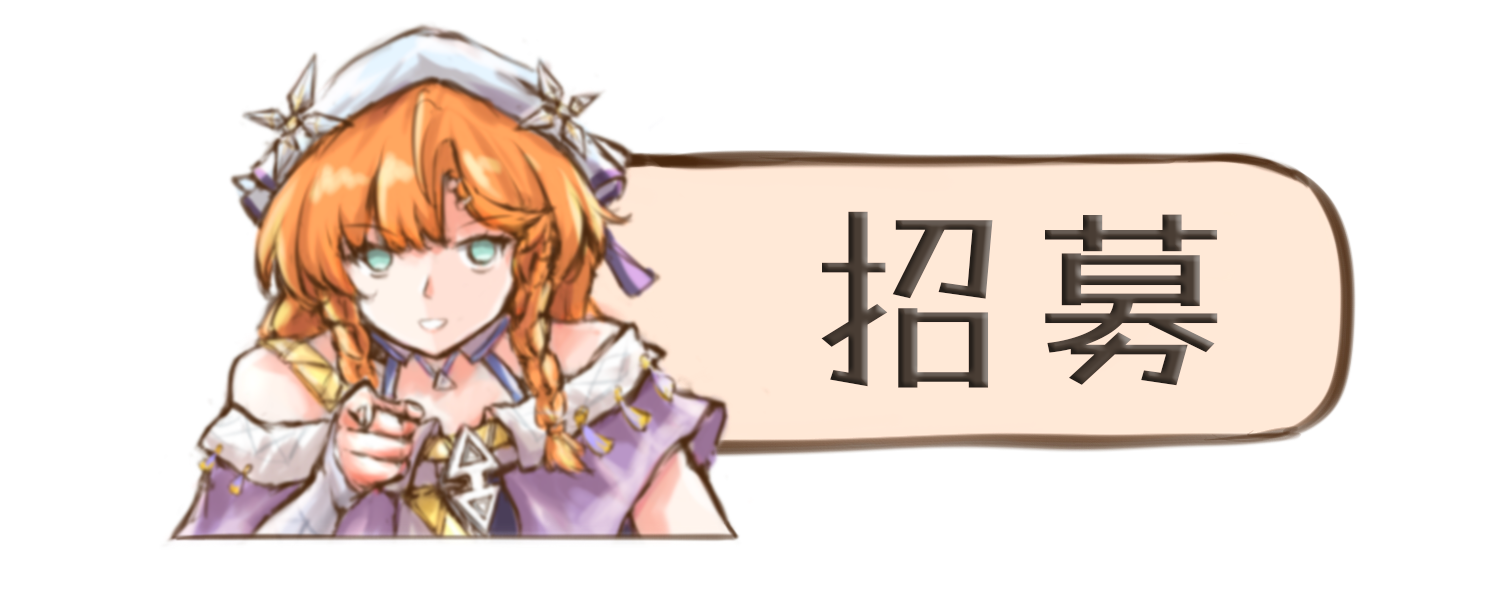
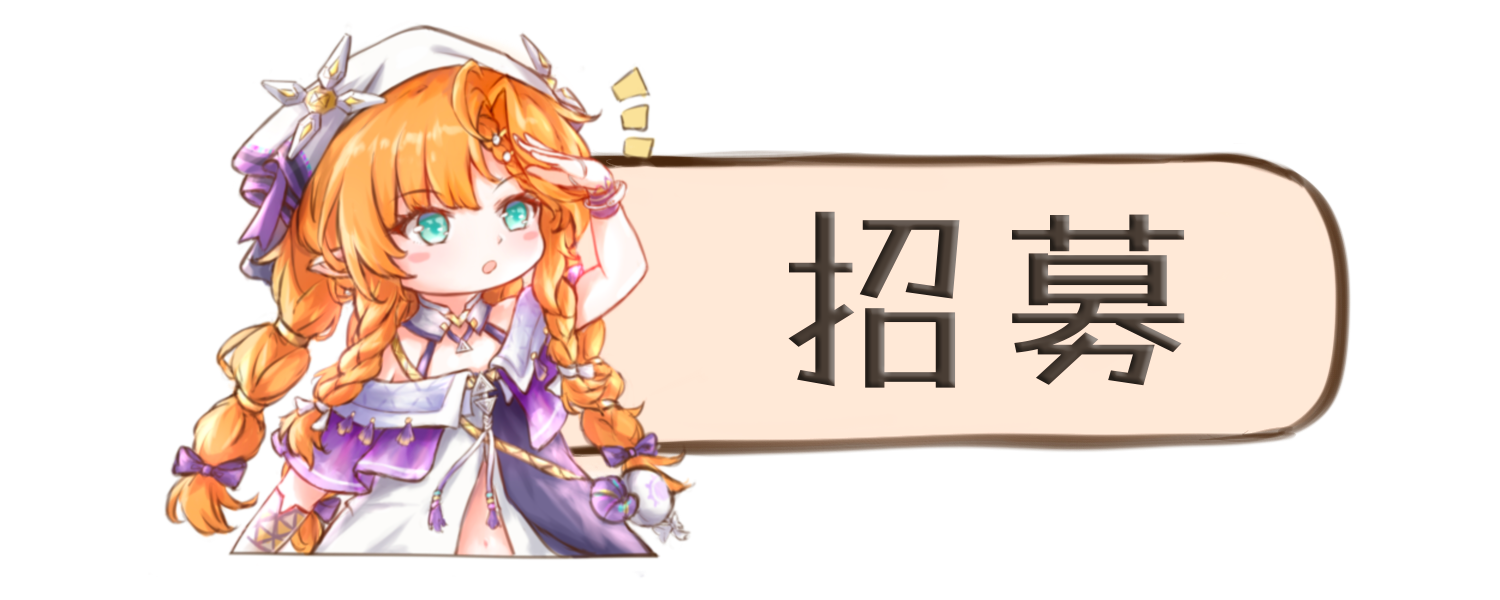
feat(home): replace recruitment button art

Changed region(s): [[0.092, 0.03, 0.552, 0.93], [0.5213, 0.33, 0.828, 0.66], [0.828, 0.24, 0.92, 0.75]]

diff --git a/docs/system-design.html b/docs/system-design.html
@@ -199,7 +199,7 @@
 <li>Bright School 移动端玩家铭牌的模式图标和数字比桌面合同小 20%：<code>mobile/home-shell/player-plaque.css</code>、<code>home/mobile-compact.css</code> 与最终 <code>mobile-adaptive/bright-school-portrait/home-player-plaque.css</code> 覆盖 <code>.plaque-mode-icon</code> 为 <code>clamp(19.2px, 17.6cqw, 24px)</code>，覆盖 <code>.plaque-mode-rank</code> 为 <code>clamp(14.4px, 13.6cqw, 19.2px)</code>；桌面和窄桌面继续保留 <code>clamp(24px, 22cqw, 30px)</code> / <code>clamp(18px, 17cqw, 24px)</code>，避免移动端修正反向改变中桌面铭牌比例。</li>
 </ul>
 <ul>
-<li>Bright School home utility buttons use user-drawn horizontal label assets in <code>public/assets/home/home-utility-*.webp</code>, converted losslessly from the 1500x600 PNG drawings in <code>C:/codex/image/main/</code> with the original artwork proportions preserved; PNG source copies are kept beside the runtime WebP files. <code>HomeUtilityDock</code> still renders native buttons with <code>aria-label</code>s and DOM icon/title fallbacks for non-Bright themes, but Bright School hides those fallback nodes and displays <code>.utility-entry-art</code> only. Utility entries reuse the member-handbook/match image treatment: transparent button chrome, a single closer dark <code>drop-shadow(5px 6px 0 rgba(61, 43, 37, 0.3))</code> on the image art, desktop hover/focus rotation, active compressed image shadow, and reduced-motion transform cancellation. The six desktop entries keep their native button containers untransformed and give only <code>.utility-entry-art</code> deterministic clockwise/counterclockwise <code>--utility-tilt</code> values; each tone also defines a same-direction <code>--utility-hover-tilt</code> around <code>3.8deg</code> to <code>4.4deg</code>, and hover/focus adds a shared <code>scale(1.015)</code> compensation so reverse-tilted long labels do not appear to shrink by crossing zero. Fixed <code>grid-auto-rows</code> keep the main-panel/background height and hit boxes stable. Recruitment-ready adds only a subtle pink art glow instead of redrawing the old card background. The user-drawn canvases keep more transparent side bearing than the legacy generated buttons, so Bright School keeps <code>.utility-entry-art</code> at <code>121%</code> width for the mobile baseline and raises only the desktop art to <code>128%</code> while keeping <code>height: auto</code> and <code>max-width: none</code>; the desktop grid gap contracts to <code>clamp(4px, 0.55vw, 8px)</code> so the 3x2 toolbox reads denser without stretching the raster content. Desktop utility art additionally uses restrained tone-scoped <code>--utility-x</code>, <code>--utility-y</code>, and <code>--utility-tilt</code> offsets so the 3x2 toolbox reads like casually placed stickers; these offsets remain on the image layer through hover and active states rather than moving the button/grid item. On phone and tablet widths, <code>src/styles/mobile-adaptive/home-utility-interactions.css</code> keeps the <code>.utility-image-entry</code> button container untransformed, borderless, and paddingless for hover, focus, and active states so the hand-drawn button background cannot stretch; mobile feedback stays on the image art through filter, shadow, and transform-only lift/press motion. Phone portrait and final narrow-desktop safety layers keep the same image-only 2x3 toolbox contract and must not restore the old icon-plus-title columns; the portrait stage gap stays tight, the match row uses <code>clamp(176px, 52vw, 224px)</code> while the handbook row uses <code>clamp(148px, 42vw, 188px)</code>, and utility buttons keep a 52px-plus minimum target so the toolbox remains inside the mobile main-panel frame.</li>
+<li>Bright School home utility buttons use user-drawn horizontal label assets in <code>public/assets/home/home-utility-*.webp</code>, converted as compact high-quality WebP files from the 1500x600 PNG drawings in <code>C:/codex/image/main/</code> with the original artwork proportions and alpha shape preserved; PNG source copies are kept beside the runtime WebP files. The recruitment entry now uses <code>C:/codex/image/main/Recruit_btn1.png</code>, mirrored as <code>public/assets/home/home-utility-recruitment.png</code> and encoded at the highest quality that remains below the runtime WebP size gate. <code>HomeUtilityDock</code> still renders native buttons with <code>aria-label</code>s and DOM icon/title fallbacks for non-Bright themes, but Bright School hides those fallback nodes and displays <code>.utility-entry-art</code> only. Utility entries reuse the member-handbook/match image treatment: transparent button chrome, a single closer dark <code>drop-shadow(5px 6px 0 rgba(61, 43, 37, 0.3))</code> on the image art, desktop hover/focus rotation, active compressed image shadow, and reduced-motion transform cancellation. The six desktop entries keep their native button containers untransformed and give only <code>.utility-entry-art</code> deterministic clockwise/counterclockwise <code>--utility-tilt</code> values; each tone also defines a same-direction <code>--utility-hover-tilt</code> around <code>3.8deg</code> to <code>4.4deg</code>, and hover/focus adds a shared <code>scale(1.015)</code> compensation so reverse-tilted long labels do not appear to shrink by crossing zero. Fixed <code>grid-auto-rows</code> keep the main-panel/background height and hit boxes stable. Recruitment-ready adds only a subtle pink art glow instead of redrawing the old card background. The user-drawn canvases keep more transparent side bearing than the legacy generated buttons, so Bright School keeps <code>.utility-entry-art</code> at <code>121%</code> width for the mobile baseline and raises only the desktop art to <code>128%</code> while keeping <code>height: auto</code> and <code>max-width: none</code>; the desktop grid gap contracts to <code>clamp(4px, 0.55vw, 8px)</code> so the 3x2 toolbox reads denser without stretching the raster content. Desktop utility art additionally uses restrained tone-scoped <code>--utility-x</code>, <code>--utility-y</code>, and <code>--utility-tilt</code> offsets so the 3x2 toolbox reads like casually placed stickers; these offsets remain on the image layer through hover and active states rather than moving the button/grid item. On phone and tablet widths, <code>src/styles/mobile-adaptive/home-utility-interactions.css</code> keeps the <code>.utility-image-entry</code> button container untransformed, borderless, and paddingless for hover, focus, and active states so the hand-drawn button background cannot stretch; mobile feedback stays on the image art through filter, shadow, and transform-only lift/press motion. Phone portrait and final narrow-desktop safety layers keep the same image-only 2x3 toolbox contract and must not restore the old icon-plus-title columns; the portrait stage gap stays tight, the match row uses <code>clamp(176px, 52vw, 224px)</code> while the handbook row uses <code>clamp(148px, 42vw, 188px)</code>, and utility buttons keep a 52px-plus minimum target so the toolbox remains inside the mobile main-panel frame.</li>
 </ul>
 <h2>维护约定</h2>
 <ul>
@@ -4629,6 +4629,9 @@
 </ul>
 <ul>
 <li>Bright School 桌面首页采用四段响应式契约：<code>&gt;=1181px</code> 是 wide desktop，主舞台无横向滚动并让匹配入口成为一级视觉主角；桌面主舞台统一使用两大列，左列从上到下堆叠玩家铭牌、部员手册和 3x2 “社团工具箱”，右列只放跨三行的匹配图片按钮。<code>1181px-1500px</code> 额外压缩列间距、降低舞台顶部留白、放大右侧匹配入口，并给玩家铭牌保留可读列宽，避免 1280x768 等中等桌面裁切段位面板；<code>1024px-1180px</code> 是 compact desktop，使用 <code>player/manual/utility/match</code> 命名网格，不允许页面级横向滚动，并保持左操作栈加右匹配主列；<code>701px-1023px</code> 是 micro desktop，<code>.home-main-panel</code> 提供受控横向滚动，内部 <code>.home-stage</code> 固定 <code>960px</code> 最小舞台宽度，继续保留左操作栈和右匹配入口的层级；<code>&lt;=700px</code> 继续走移动首页布局。主面板本体使用可拉伸的背景板图片，桌面/窄桌面用横版图，移动端用竖版图，窄桌面和低高度兜底不得把面板内边距压回旧平面卡片数值，内部 <code>.home-stage</code> 不再绘制自己的板面背景。核心可点击入口必须在正常 grid flow 内；Bright School 玩家铭牌内部保持头像、用户名、段位面板三列固定结构，用户名只能在中间列内缩放和收敛，不能跨列遮挡段位面板；铭牌外壳背景使用 <code>public/assets/home/student-id-nameplate.webp</code> 手绘学生证图，PNG 同目录保留为源图，背景按 border-box 铺满整张卡片且不再叠旧粉绿渐变，图片只提供外框和三块安全区，头像、用户名和模式图标/段位由 DOM/CSS 渲染，按钮本体、头像容器和段位面板不再绘制旧背景、边框或 <code>box-shadow</code> 外框；<code>.plaque-stats</code> 由 <code>--home-student-id-stats-*</code> 变量定位到右侧纸页安全区中心，默认桌面中心为 <code>88% / 52%</code>、宽高为 <code>clamp(104px, 24%, 126px) / 70px</code>，最终 portrait 与窄桌面安全层使用同一右页中心并收束为 <code>clamp(82px, 24%, 96px) / 60px</code>；铭牌 grid 第三列直接引用 <code>var(--home-student-id-stats-width)</code>，不再用比绝对定位统计层更宽的固定/minmax 列挤压中间用户名列。三模式列只显示收束后的图标和 WuWa 数字，完整 rank 文本保留在 <code>aria-label</code>，段数字为红色、级数字为深紫色；装备用户名背景时，首页铭牌 <code>.user-identity-name</code> 必须使用共享 <code>--user-nameplate-font-size</code>，避免继承外层大字号后只显示半个英文用户名；铭牌按钮本体只使用与部员手册、匹配入口图一致的近距深色 <code>drop-shadow</code> 和 hover/focus 小角度旋转，头像与段位内层仍透明且无边框阴影，头像容器通过共享的画框中心和尺寸变量锚定到生成图左侧立绘画框，容器内部立绘继续用 grid/contain 水平垂直居中；旧纸夹伪元素保持关闭且后置 modal/mobile 安全层不得重置铭牌背景；最终窄桌面与 portrait 安全层重复透明外壳、无旧边框、头像图水平垂直居中和段位统计定位合同。低高度桌面允许纵向滚动，footer 只在宽桌面且高度充足时固定在视口右下角。Bright School 工具区每个按钮使用 <code>public/assets/home/home-utility-*.webp</code> 手绘横向标签图作为唯一可见内容，DOM 图标和主标题仅作为非 Bright School fallback/可访问语义存在；桌面、compact/micro desktop 与 portrait 手机都不得恢复旧的图标列、文字列、圆角纸片背景或硬边框。工具图与部员手册、匹配入口共用近距深色 <code>drop-shadow</code>；桌面六张工具图用固定的正负小倾角形成随手贴放效果，按钮容器保持 <code>transform: none</code>，hover/focus 只让 <code>.utility-entry-art</code> 沿各自原方向继续旋转到约 <code>3.8deg-4.4deg</code>，并统一轻微放大至 <code>1.015</code>，避免反向倾角跨过零度产生视觉缩小；active 也只压低图片层。桌面网格固定两行高度并把图宽提高到 <code>128%</code>、gap 收紧到 <code>clamp(4px, 0.55vw, 8px)</code>，避免悬停改变背景板高度；移动端继续使用既有 <code>121%</code> 图片基线与最终交互覆盖，不修改 2x3 布局和触控尺寸。portrait 手机主舞台 gap 保持 8px，入口图必须先裁掉透明空边，匹配行高大于手册行高并把下方工具区保持在主面板内；招募 ready alert 只给图片增加轻微粉色光晕，不重画旧背景。匹配入口下方不展示模式票据；<code>lobbyStats.matchmakingCounts</code> 继续用于点击打开的对弈模式选择卡片，规则文案固定为“路数·时间”与“贴目/规则”两行，计数卡片固定贴到对弈按钮最右侧并以图标+人数横排呈现，按钮中央通过 <code>MatchModeWatermark</code> 显示图标加 WuWa 英文标签且不参与点击，桌面透明度为 50%，移动端透明度由最终 <code>mobile-adaptive</code> 安全层降为 20%；Bright School 竖屏设置弹窗的标题行高和 tabs 三列布局由最终 portrait 安全层控制，防止标题被裁切或 tab 换行。</li>
+</ul>
+<ul>
+<li>招募工具图当前以 <code>C:/codex/image/main/Recruit_btn1.png</code> 为源，仓库内保留同尺寸 <code>public/assets/home/home-utility-recruitment.png</code>，运行期使用保留透明通道且满足 PNG 四分之一体积门槛的高质量 <code>public/assets/home/home-utility-recruitment.webp</code>；1500x600 画布与透明边距继续服从上述桌面/移动图片层合同。</li>
 </ul>
 <ul>
 <li>Bright School portrait home/profile/shop fixes that must survive theme overrides live in the final import-only <code>src/styles/mobile-adaptive/bright-school-portrait.css</code> layer and its <code>src/styles/mobile-adaptive/bright-school-portrait/</code> domain files. The home player plaque reserves a non-collapsing middle column for <code>UserIdentity</code>, keeps equipped nameplates visible inside the username tag, and keeps character-chain badges hidden so they do not cover character art. The resume header uses a two-row grid on phones: title plus close button on the first row, achievement/personalization shortcuts left on the second row, and the visible coin wallet right on the second row. The final portrait rule repeats the desktop-level resume header selectors so desktop grid-column assignments cannot hide the mobile close button; its wallet slot is shrinkable and keeps the coin capsule inside the modal edge. Embedded resume character records use an internally scrolling list with taller rows instead of compressing avatars and text. Bright School shop wallet display now shows only the coin capsule while blue-gem balances remain hidden from shop and resume surfaces.</li>

diff --git a/docs/system-design/06-ui-theme-mobile.md b/docs/system-design/06-ui-theme-mobile.md
@@ -93,6 +93,7 @@
 - Bright School's final mobile layer keeps login and home titles on one line by scaling type within bounded widths instead of truncating the main title. The login brand and login/register segmented control no longer add tinted background panels on phones or desktop, so the paper grid remains the dominant surface; the outer login card keeps the same lower-right hard shadow depth as Bright School buttons.
 - Bright School home image entries use the final import-only `src/styles/mobile-adaptive/home-narrow-desktop.css` safety layer even on desktop breakpoints. Concrete rules live under `src/styles/mobile-adaptive/home-narrow-desktop/` by common region reset, 1181px-1500px wide stage, 1024px-1180px compact stage, 701px-1023px micro-stage scroll, and short-height stack concerns. The member handbook, match entry, and Bright School utility entries are image-only buttons: visible `data-hud`, paper labels, fixed text badges, card bottom label areas, radial glows, blurred halo shadows, and old utility card border/backgrounds are not allowed. Their buttons keep accessible `aria-label`s, the `<img>` nodes are decorative and constrained with `box-sizing: border-box`, `height/max-height: 100%`, and `object-fit: contain`, and the final Bright School entry layers own non-text hover/focus/active feedback. Desktop handbook/match hover/focus rotates the visible entry art clockwise; the six utility buttons use deterministic clockwise/counterclockwise resting tilts on `.utility-entry-art`, then continue in their original direction to tone-scoped hover/focus angles around `3.8deg` to `4.4deg` with shared `scale(1.015)` visual-size compensation. Utility button containers remain untransformed and the desktop 3x2 grid uses fixed rows, so transformed overflow cannot change the main-panel/background height or hit boxes; later narrow-desktop resets must preserve this image-layer ownership instead of restoring container motion or icon-plus-title columns. Touch/mobile cannot depend on hover, must keep at least 44px target size, and must not transform, border, or pad the `.utility-image-entry` button container on hover, focus, or active; mobile feedback stays on the decorative `.utility-entry-art` through filter, shadow, and transform-only lift/press motion so the hand-drawn button frame does not stretch or shift. `prefers-reduced-motion` cancels transform movement while preserving focus visibility.
 - Bright School 桌面首页采用四段响应式契约：`>=1181px` 是 wide desktop，主舞台无横向滚动并让匹配入口成为一级视觉主角；桌面主舞台统一使用两大列，左列从上到下堆叠玩家铭牌、部员手册和 3x2 “社团工具箱”，右列只放跨三行的匹配图片按钮。`1181px-1500px` 额外压缩列间距、降低舞台顶部留白、放大右侧匹配入口，并给玩家铭牌保留可读列宽，避免 1280x768 等中等桌面裁切段位面板；`1024px-1180px` 是 compact desktop，使用 `player/manual/utility/match` 命名网格，不允许页面级横向滚动，并保持左操作栈加右匹配主列；`701px-1023px` 是 micro desktop，`.home-main-panel` 提供受控横向滚动，内部 `.home-stage` 固定 `960px` 最小舞台宽度，继续保留左操作栈和右匹配入口的层级；`<=700px` 继续走移动首页布局。主面板本体使用可拉伸的背景板图片，桌面/窄桌面用横版图，移动端用竖版图，窄桌面和低高度兜底不得把面板内边距压回旧平面卡片数值，内部 `.home-stage` 不再绘制自己的板面背景。核心可点击入口必须在正常 grid flow 内；Bright School 玩家铭牌内部保持头像、用户名、段位面板三列固定结构，用户名只能在中间列内缩放和收敛，不能跨列遮挡段位面板；铭牌外壳背景使用 `public/assets/home/student-id-nameplate.webp` 手绘学生证图，PNG 同目录保留为源图，背景按 border-box 铺满整张卡片且不再叠旧粉绿渐变，图片只提供外框和三块安全区，头像、用户名和模式图标/段位由 DOM/CSS 渲染，按钮本体、头像容器和段位面板不再绘制旧背景、边框或 `box-shadow` 外框；`.plaque-stats` 由 `--home-student-id-stats-*` 变量定位到右侧纸页安全区中心，默认桌面中心为 `88% / 52%`、宽高为 `clamp(104px, 24%, 126px) / 70px`，最终 portrait 与窄桌面安全层使用同一右页中心并收束为 `clamp(82px, 24%, 96px) / 60px`；铭牌 grid 第三列直接引用 `var(--home-student-id-stats-width)`，不再用比绝对定位统计层更宽的固定/minmax 列挤压中间用户名列。三模式列只显示收束后的图标和 WuWa 数字，完整 rank 文本保留在 `aria-label`，段数字为红色、级数字为深紫色；装备用户名背景时，首页铭牌 `.user-identity-name` 必须使用共享 `--user-nameplate-font-size`，避免继承外层大字号后只显示半个英文用户名；铭牌按钮本体只使用与部员手册、匹配入口图一致的近距深色 `drop-shadow` 和 hover/focus 小角度旋转，头像与段位内层仍透明且无边框阴影，头像容器通过共享的画框中心和尺寸变量锚定到生成图左侧立绘画框，容器内部立绘继续用 grid/contain 水平垂直居中；旧纸夹伪元素保持关闭且后置 modal/mobile 安全层不得重置铭牌背景；最终窄桌面与 portrait 安全层重复透明外壳、无旧边框、头像图水平垂直居中和段位统计定位合同。低高度桌面允许纵向滚动，footer 只在宽桌面且高度充足时固定在视口右下角。Bright School 工具区每个按钮使用 `public/assets/home/home-utility-*.webp` 手绘横向标签图作为唯一可见内容，DOM 图标和主标题仅作为非 Bright School fallback/可访问语义存在；桌面、compact/micro desktop 与 portrait 手机都不得恢复旧的图标列、文字列、圆角纸片背景或硬边框。工具图与部员手册、匹配入口共用近距深色 `drop-shadow`；桌面六张工具图用固定的正负小倾角形成随手贴放效果，按钮容器保持 `transform: none`，hover/focus 只让 `.utility-entry-art` 沿各自原方向继续旋转到约 `3.8deg-4.4deg`，并统一轻微放大至 `1.015`，避免反向倾角跨过零度产生视觉缩小；active 也只压低图片层。桌面网格固定两行高度并把图宽提高到 `128%`、gap 收紧到 `clamp(4px, 0.55vw, 8px)`，避免悬停改变背景板高度；移动端继续使用既有 `121%` 图片基线与最终交互覆盖，不修改 2x3 布局和触控尺寸。portrait 手机主舞台 gap 保持 8px，入口图必须先裁掉透明空边，匹配行高大于手册行高并把下方工具区保持在主面板内；招募 ready alert 只给图片增加轻微粉色光晕，不重画旧背景。匹配入口下方不展示模式票据；`lobbyStats.matchmakingCounts` 继续用于点击打开的对弈模式选择卡片，规则文案固定为“路数·时间”与“贴目/规则”两行，计数卡片固定贴到对弈按钮最右侧并以图标+人数横排呈现，按钮中央通过 `MatchModeWatermark` 显示图标加 WuWa 英文标签且不参与点击，桌面透明度为 50%，移动端透明度由最终 `mobile-adaptive` 安全层降为 20%；Bright School 竖屏设置弹窗的标题行高和 tabs 三列布局由最终 portrait 安全层控制，防止标题被裁切或 tab 换行。
+- 招募工具图当前以 `C:/codex/image/main/Recruit_btn1.png` 为源，仓库内保留同尺寸 `public/assets/home/home-utility-recruitment.png`，运行期使用保留透明通道且满足 PNG 四分之一体积门槛的高质量 `public/assets/home/home-utility-recruitment.webp`；1500x600 画布与透明边距继续服从上述桌面/移动图片层合同。
 - Bright School portrait home/profile/shop fixes that must survive theme overrides live in the final import-only `src/styles/mobile-adaptive/bright-school-portrait.css` layer and its `src/styles/mobile-adaptive/bright-school-portrait/` domain files. The home player plaque reserves a non-collapsing middle column for `UserIdentity`, keeps equipped nameplates visible inside the username tag, and keeps character-chain badges hidden so they do not cover character art. The resume header uses a two-row grid on phones: title plus close button on the first row, achievement/personalization shortcuts left on the second row, and the visible coin wallet right on the second row. The final portrait rule repeats the desktop-level resume header selectors so desktop grid-column assignments cannot hide the mobile close button; its wallet slot is shrinkable and keeps the coin capsule inside the modal edge. Embedded resume character records use an internally scrolling list with taller rows instead of compressing avatars and text. Bright School shop wallet display now shows only the coin capsule while blue-gem balances remain hidden from shop and resume surfaces.
 - Bright School home player plaque stats are centered inside the right-side generated stats panel on desktop and mobile: the stats panel declares an inline-size container, uses `--home-student-id-stats-*` center/size variables for positioning, and its grid span covers the whole plaque before absolute positioning so `left` is not calculated from only the third grid column. It renders three shrinkable centered columns for larger mode icon plus number-only rank while omitting rating points from the plaque. Dan numbers are red, kyu numbers are deep purple, and the visible digits use the WuWa numeric font through owner CSS.
 - Bright School mobile player plaque mode stats use a 20% smaller mobile-only size contract than desktop: `mobile/home-shell/player-plaque.css`, `home/mobile-compact.css`, and the final `mobile-adaptive/bright-school-portrait/home-player-plaque.css` set `.plaque-mode-icon` to `clamp(19.2px, 17.6cqw, 24px)` and `.plaque-mode-rank` to `clamp(14.4px, 13.6cqw, 19.2px)`. Desktop and narrow-desktop rules keep `clamp(24px, 22cqw, 30px)` / `clamp(18px, 17cqw, 24px)` so the mobile adjustment does not shrink medium desktop plaques.

diff --git a/docs/system-design.md b/docs/system-design.md
@@ -64,7 +64,7 @@
 - Bright School 首页玩家铭牌使用 GPT Image 2 生成的手绘学生证壳资源：运行时优先引用 `public/assets/home/student-id-nameplate.webp`，同目录保留 PNG 源图；`src/styles/themes/bright-school/home/student-id-card/card-shell-avatar.css` 通过 `image-set()` 把该图挂在 `.home-player-plaque.tactical-id-card` 的唯一背景层，不再叠加旧粉绿渐变 fallback，并用 `background-origin: border-box` / `background-clip: border-box` 让外框、挂孔和分区图铺满整张卡片而不是被 padding 挤进内容区。图片只提供外框、左头像安全区、中部用户名留白和右侧段位统计留白，不画入用户名、头像、段位、积分或 `STUDENT ID` 文案；这些动态内容继续由 React DOM、`UserIdentity`、`.plaque-stats` 和可靠 CSS 文案渲染。按钮本体、头像容器与段位面板只保留尺寸、间距和文本布局，不再绘制旧背景、边框或 `box-shadow` 外框，避免和生成图里的学生证分区重复；`.plaque-stats` 通过 `--home-student-id-stats-center-x/y`、`--home-student-id-stats-width/height` 绝对定位到右侧纸页安全区中心，默认桌面中心为 `88% / 52%`、宽高为 `clamp(104px, 24%, 126px) / 70px`，最终移动/窄桌面层使用同一右页中心并把宽高收束为 `clamp(82px, 24%, 96px) / 60px`；铭牌 grid 第三列必须直接引用 `var(--home-student-id-stats-width)`，避免绝对定位的统计层仍通过过宽固定列挤压中间用户名列。内部三列居中展示收束后的模式图标和 WuWa 数字，段位数字为红色，级位数字为深紫色，视觉层不渲染“段/级”文字；装备用户名背景时，首页铭牌的 `.user-identity-name` 必须使用共享 `--user-nameplate-font-size`，让文字、背景和安全 padding 一起缩放，不能继承外层移动端大字号导致 8 个英文字符被裁成半截；铭牌按钮本体只保留与部员手册、匹配入口图一致的较近深色 `drop-shadow(5px 6px 0 rgba(61, 43, 37, 0.3))` 和 hover/focus 小角度旋转，头像与段位内层仍保持透明且无边框阴影；头像容器通过共享的画框中心和尺寸变量锚定到生成图左侧立绘画框，容器内部立绘继续用 grid/contain 水平垂直居中；旧纸夹伪元素保持关闭，后置 `modals.css` / `mobile.css` / `mobile-adaptive.css` 不得重新覆盖铭牌背景，最终窄桌面和 portrait 安全层会重复透明外壳、头像居中和段位统计定位契约；该契约同时适配桌面和移动端的现有三列布局。
 - Bright School 铭牌段位统计层虽然视觉上位于右页安全区，但 CSS 绝对定位基准必须跨整张 `.home-player-plaque.tactical-id-card`，不能重新挂到第三个 grid column；否则 `left` 百分比会按窄列计算并把第三个模式推到右边界外。
 - Bright School 移动端玩家铭牌的模式图标和数字比桌面合同小 20%：`mobile/home-shell/player-plaque.css`、`home/mobile-compact.css` 与最终 `mobile-adaptive/bright-school-portrait/home-player-plaque.css` 覆盖 `.plaque-mode-icon` 为 `clamp(19.2px, 17.6cqw, 24px)`，覆盖 `.plaque-mode-rank` 为 `clamp(14.4px, 13.6cqw, 19.2px)`；桌面和窄桌面继续保留 `clamp(24px, 22cqw, 30px)` / `clamp(18px, 17cqw, 24px)`，避免移动端修正反向改变中桌面铭牌比例。
-- Bright School home utility buttons use user-drawn horizontal label assets in `public/assets/home/home-utility-*.webp`, converted losslessly from the 1500x600 PNG drawings in `C:/codex/image/main/` with the original artwork proportions preserved; PNG source copies are kept beside the runtime WebP files. `HomeUtilityDock` still renders native buttons with `aria-label`s and DOM icon/title fallbacks for non-Bright themes, but Bright School hides those fallback nodes and displays `.utility-entry-art` only. Utility entries reuse the member-handbook/match image treatment: transparent button chrome, a single closer dark `drop-shadow(5px 6px 0 rgba(61, 43, 37, 0.3))` on the image art, desktop hover/focus rotation, active compressed image shadow, and reduced-motion transform cancellation. The six desktop entries keep their native button containers untransformed and give only `.utility-entry-art` deterministic clockwise/counterclockwise `--utility-tilt` values; each tone also defines a same-direction `--utility-hover-tilt` around `3.8deg` to `4.4deg`, and hover/focus adds a shared `scale(1.015)` compensation so reverse-tilted long labels do not appear to shrink by crossing zero. Fixed `grid-auto-rows` keep the main-panel/background height and hit boxes stable. Recruitment-ready adds only a subtle pink art glow instead of redrawing the old card background. The user-drawn canvases keep more transparent side bearing than the legacy generated buttons, so Bright School keeps `.utility-entry-art` at `121%` width for the mobile baseline and raises only the desktop art to `128%` while keeping `height: auto` and `max-width: none`; the desktop grid gap contracts to `clamp(4px, 0.55vw, 8px)` so the 3x2 toolbox reads denser without stretching the raster content. Desktop utility art additionally uses restrained tone-scoped `--utility-x`, `--utility-y`, and `--utility-tilt` offsets so the 3x2 toolbox reads like casually placed stickers; these offsets remain on the image layer through hover and active states rather than moving the button/grid item. On phone and tablet widths, `src/styles/mobile-adaptive/home-utility-interactions.css` keeps the `.utility-image-entry` button container untransformed, borderless, and paddingless for hover, focus, and active states so the hand-drawn button background cannot stretch; mobile feedback stays on the image art through filter, shadow, and transform-only lift/press motion. Phone portrait and final narrow-desktop safety layers keep the same image-only 2x3 toolbox contract and must not restore the old icon-plus-title columns; the portrait stage gap stays tight, the match row uses `clamp(176px, 52vw, 224px)` while the handbook row uses `clamp(148px, 42vw, 188px)`, and utility buttons keep a 52px-plus minimum target so the toolbox remains inside the mobile main-panel frame.
+- Bright School home utility buttons use user-drawn horizontal label assets in `public/assets/home/home-utility-*.webp`, converted as compact high-quality WebP files from the 1500x600 PNG drawings in `C:/codex/image/main/` with the original artwork proportions and alpha shape preserved; PNG source copies are kept beside the runtime WebP files. The recruitment entry now uses `C:/codex/image/main/Recruit_btn1.png`, mirrored as `public/assets/home/home-utility-recruitment.png` and encoded at the highest quality that remains below the runtime WebP size gate. `HomeUtilityDock` still renders native buttons with `aria-label`s and DOM icon/title fallbacks for non-Bright themes, but Bright School hides those fallback nodes and displays `.utility-entry-art` only. Utility entries reuse the member-handbook/match image treatment: transparent button chrome, a single closer dark `drop-shadow(5px 6px 0 rgba(61, 43, 37, 0.3))` on the image art, desktop hover/focus rotation, active compressed image shadow, and reduced-motion transform cancellation. The six desktop entries keep their native button containers untransformed and give only `.utility-entry-art` deterministic clockwise/counterclockwise `--utility-tilt` values; each tone also defines a same-direction `--utility-hover-tilt` around `3.8deg` to `4.4deg`, and hover/focus adds a shared `scale(1.015)` compensation so reverse-tilted long labels do not appear to shrink by crossing zero. Fixed `grid-auto-rows` keep the main-panel/background height and hit boxes stable. Recruitment-ready adds only a subtle pink art glow instead of redrawing the old card background. The user-drawn canvases keep more transparent side bearing than the legacy generated buttons, so Bright School keeps `.utility-entry-art` at `121%` width for the mobile baseline and raises only the desktop art to `128%` while keeping `height: auto` and `max-width: none`; the desktop grid gap contracts to `clamp(4px, 0.55vw, 8px)` so the 3x2 toolbox reads denser without stretching the raster content. Desktop utility art additionally uses restrained tone-scoped `--utility-x`, `--utility-y`, and `--utility-tilt` offsets so the 3x2 toolbox reads like casually placed stickers; these offsets remain on the image layer through hover and active states rather than moving the button/grid item. On phone and tablet widths, `src/styles/mobile-adaptive/home-utility-interactions.css` keeps the `.utility-image-entry` button container untransformed, borderless, and paddingless for hover, focus, and active states so the hand-drawn button background cannot stretch; mobile feedback stays on the image art through filter, shadow, and transform-only lift/press motion. Phone portrait and final narrow-desktop safety layers keep the same image-only 2x3 toolbox contract and must not restore the old icon-plus-title columns; the portrait stage gap stays tight, the match row uses `clamp(176px, 52vw, 224px)` while the handbook row uses `clamp(148px, 42vw, 188px)`, and utility buttons keep a 52px-plus minimum target so the toolbox remains inside the mobile main-panel frame.
 
 ## 维护约定
 
